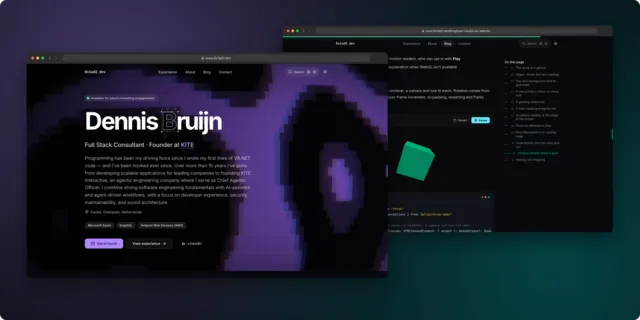
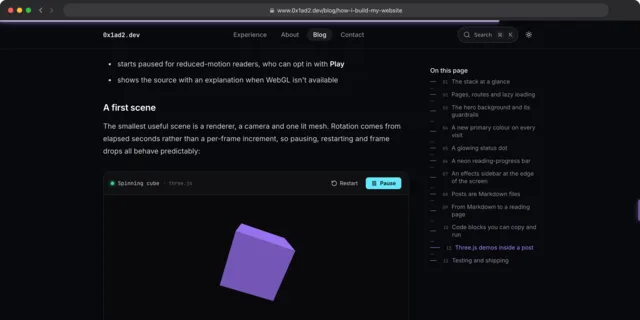
Enlarge project previews and drop the outdated 0x1ad2.dev tagline shot
Move each preview into the What it is cell so it renders at the cell's
width instead of a squeezed sixth column (about 90 px before). Swap the
0x1ad2.dev preview from the home hero, which still reads "Full Stack
Consultant", to the blog post screenshot from the same docs/assets.

diff --git a/README.md b/README.md
@@ -73,51 +73,51 @@ I combine solid engineering fundamentals with agent-driven workflows and pick th
 
 ### Cross-platform products
 
-| Icon | Project | What it is | Platforms | Status | Preview |
-|:-:|---|---|---|---|---|
-| <img src="assets/crow/icon.png" width="40" height="40" alt="Crow icon"> | <b>🐦⬛&nbsp;Crow</b> | Card scanner and price guide for Magic, Pokémon, Lorcana, One Piece and Yu-Gi-Oh! on iPhone, Android and web<br><img src="https://img.shields.io/badge/Swift%206-333333?style=flat-square" alt="Swift 6"> <img src="https://img.shields.io/badge/Kotlin-333333?style=flat-square" alt="Kotlin"> <img src="https://img.shields.io/badge/React%2019-333333?style=flat-square" alt="React 19"> <img src="https://img.shields.io/badge/Supabase-333333?style=flat-square" alt="Supabase"> <img src="https://img.shields.io/badge/Rust-333333?style=flat-square" alt="Rust"> | iPhone and iPad (iOS and iPadOS 27+), Android 13+, web dashboard | v1.0.0 | <a href="assets/crow/explainer.mp4"><picture><source media="(prefers-color-scheme: light)" srcset="assets/crow/preview-light.webp"><img src="assets/crow/preview-dark.webp" width="200" alt="Crow preview"></picture></a><br><sub><a href="assets/crow/explainer.mp4">Explainer</a> (1.4 MB)</sub> |
-| <img src="assets/noema/icon.png" width="40" height="40" alt="Noema icon"> | <b>🪷&nbsp;Noema</b> | Generative audiovisual studio with audio-reactive worlds and a synth lab for Apple, Android and Windows<br><img src="https://img.shields.io/badge/C%2B%2B17-333333?style=flat-square" alt="C++17"> <img src="https://img.shields.io/badge/WebAssembly-333333?style=flat-square" alt="WebAssembly"> <img src="https://img.shields.io/badge/three.js-333333?style=flat-square" alt="three.js"> <img src="https://img.shields.io/badge/Swift%206-333333?style=flat-square" alt="Swift 6"> <img src="https://img.shields.io/badge/Kotlin-333333?style=flat-square" alt="Kotlin"> | iPhone, iPad, Mac, Apple Watch, Android, Windows | v1.0.1 | <a href="assets/noema/explainer.mp4"><picture><source media="(prefers-color-scheme: light)" srcset="assets/noema/preview-light.webp"><img src="assets/noema/preview-dark.webp" width="200" alt="Noema preview"></picture></a><br><sub><a href="assets/noema/explainer.mp4">Explainer</a> (2.2 MB)</sub> |
+| Icon | Project | What it is | Platforms | Status |
+|:-:|---|---|---|---|
+| <img src="assets/crow/icon.png" width="40" height="40" alt="Crow icon"> | <b>🐦⬛&nbsp;Crow</b> | Card scanner and price guide for Magic, Pokémon, Lorcana, One Piece and Yu-Gi-Oh! on iPhone, Android and web<br><img src="https://img.shields.io/badge/Swift%206-333333?style=flat-square" alt="Swift 6"> <img src="https://img.shields.io/badge/Kotlin-333333?style=flat-square" alt="Kotlin"> <img src="https://img.shields.io/badge/React%2019-333333?style=flat-square" alt="React 19"> <img src="https://img.shields.io/badge/Supabase-333333?style=flat-square" alt="Supabase"> <img src="https://img.shields.io/badge/Rust-333333?style=flat-square" alt="Rust"><br><a href="assets/crow/explainer.mp4"><picture><source media="(prefers-color-scheme: light)" srcset="assets/crow/preview-light.webp"><img src="assets/crow/preview-dark.webp" width="100%" alt="Crow preview"></picture></a><br><sub><a href="assets/crow/explainer.mp4">Explainer</a> (1.4 MB)</sub> | iPhone and iPad (iOS and iPadOS 27+), Android 13+, web dashboard | v1.0.0 |
+| <img src="assets/noema/icon.png" width="40" height="40" alt="Noema icon"> | <b>🪷&nbsp;Noema</b> | Generative audiovisual studio with audio-reactive worlds and a synth lab for Apple, Android and Windows<br><img src="https://img.shields.io/badge/C%2B%2B17-333333?style=flat-square" alt="C++17"> <img src="https://img.shields.io/badge/WebAssembly-333333?style=flat-square" alt="WebAssembly"> <img src="https://img.shields.io/badge/three.js-333333?style=flat-square" alt="three.js"> <img src="https://img.shields.io/badge/Swift%206-333333?style=flat-square" alt="Swift 6"> <img src="https://img.shields.io/badge/Kotlin-333333?style=flat-square" alt="Kotlin"><br><a href="assets/noema/explainer.mp4"><picture><source media="(prefers-color-scheme: light)" srcset="assets/noema/preview-light.webp"><img src="assets/noema/preview-dark.webp" width="100%" alt="Noema preview"></picture></a><br><sub><a href="assets/noema/explainer.mp4">Explainer</a> (2.2 MB)</sub> | iPhone, iPad, Mac, Apple Watch, Android, Windows | v1.0.1 |
 
 ### Agent and developer tools
 
-| Icon | Project | What it is | Platforms | Status | Preview |
-|:-:|---|---|---|---|---|
-| <img src="assets/claudetographer/icon.png" width="40" height="40" alt="Claudetographer icon"> | <b>🧭&nbsp;Claudetographer</b> | Live map of every Claude Code session, subagent, agent team and workflow, with cost and forecasts<br><img src="https://img.shields.io/badge/TypeScript-333333?style=flat-square" alt="TypeScript"> <img src="https://img.shields.io/badge/Node.js-333333?style=flat-square" alt="Node.js"> <img src="https://img.shields.io/badge/React%2019-333333?style=flat-square" alt="React 19"> <img src="https://img.shields.io/badge/Vite%208-333333?style=flat-square" alt="Vite 8"> <img src="https://img.shields.io/badge/ECharts%206-333333?style=flat-square" alt="ECharts 6"> | any OS with Node 23.6+, in the browser or VS Code's Simple Browser; macOS LaunchAgent for always-on | v2.4.0 | <a href="assets/claudetographer/explainer.mp4"><picture><source media="(prefers-color-scheme: light)" srcset="assets/claudetographer/preview-light.webp"><img src="assets/claudetographer/preview-dark.webp" width="200" alt="Claudetographer preview"></picture></a><br><sub><a href="assets/claudetographer/explainer.mp4">Explainer</a> (1.4 MB)</sub> |
-| <img src="assets/loupe/icon.png" width="40" height="40" alt="Loupe icon"> | <b>🔍&nbsp;Loupe</b> | macOS menu bar tool that picks any UI element through the Accessibility API and hands it to your coding agent<br><img src="https://img.shields.io/badge/Swift%206-333333?style=flat-square" alt="Swift 6"> <img src="https://img.shields.io/badge/SwiftUI-333333?style=flat-square" alt="SwiftUI"> <img src="https://img.shields.io/badge/Accessibility%20API-333333?style=flat-square" alt="Accessibility API"> <img src="https://img.shields.io/badge/ScreenCaptureKit-333333?style=flat-square" alt="ScreenCaptureKit"> | macOS 15+ (Liquid Glass on macOS 26) | In development | <a href="assets/loupe/explainer.mp4"><picture><source media="(prefers-color-scheme: light)" srcset="assets/loupe/preview-light.webp"><img src="assets/loupe/preview-dark.webp" width="200" alt="Loupe preview"></picture></a><br><sub><a href="assets/loupe/explainer.mp4">Explainer</a> (1.3 MB)</sub> |
-| <img src="assets/jot/icon.png" width="40" height="40" alt="Jot icon"> | <b>✍&nbsp;Jot</b> | macOS Markdown notepad with Claude ghost-text autocomplete, one-key rewrites and Obsidian vaults<br><img src="https://img.shields.io/badge/TypeScript-333333?style=flat-square" alt="TypeScript"> <img src="https://img.shields.io/badge/React%2019-333333?style=flat-square" alt="React 19"> <img src="https://img.shields.io/badge/Tauri%202-333333?style=flat-square" alt="Tauri 2"> <img src="https://img.shields.io/badge/Rust-333333?style=flat-square" alt="Rust"> <img src="https://img.shields.io/badge/Swift%206-333333?style=flat-square" alt="Swift 6"> | macOS (JotMac needs macOS 14+) | In development | <a href="assets/jot/explainer.mp4"><picture><source media="(prefers-color-scheme: light)" srcset="assets/jot/preview-light.webp"><img src="assets/jot/preview-dark.webp" width="200" alt="Jot preview"></picture></a><br><sub><a href="assets/jot/explainer.mp4">Explainer</a> (1.2 MB)</sub> |
-| <img src="assets/fetch-screenshots/icon.png" width="40" height="40" alt="fetch-screenshots icon"> | <b>📸&nbsp;fetch-screenshots</b> | Playwright CLI that crawls a site and saves full-page light and dark screenshots of every page<br><img src="https://img.shields.io/badge/Python%203.10%2B-333333?style=flat-square" alt="Python 3.10+"> <img src="https://img.shields.io/badge/Playwright-333333?style=flat-square" alt="Playwright"> <img src="https://img.shields.io/badge/Pillow-333333?style=flat-square" alt="Pillow"> | macOS, Linux, Windows | In development | <a href="assets/fetch-screenshots/explainer.mp4"><img src="assets/fetch-screenshots/preview-dark.webp" width="200" alt="fetch-screenshots preview"></a><br><sub><a href="assets/fetch-screenshots/explainer.mp4">Explainer</a> (1.1 MB)</sub> |
-| <img src="assets/montage/icon.png" width="40" height="40" alt="Montage icon"> | <b>📽&nbsp;Montage</b> | Remotion studio that renders icons, GIFs and explainer videos for every 0x1ad2 project from one config<br><img src="https://img.shields.io/badge/TypeScript-333333?style=flat-square" alt="TypeScript"> <img src="https://img.shields.io/badge/Remotion%204.0.542-333333?style=flat-square" alt="Remotion 4.0.542"> <img src="https://img.shields.io/badge/React%2019-333333?style=flat-square" alt="React 19"> <img src="https://img.shields.io/badge/ffmpeg-333333?style=flat-square" alt="ffmpeg"> | macOS or Linux, Node 23.6+ | In development | <a href="assets/montage/explainer.mp4"><img src="assets/montage/preview-dark.webp" width="200" alt="Montage preview"></a><br><sub><a href="assets/montage/explainer.mp4">Explainer</a> (0.8 MB)</sub> |
+| Icon | Project | What it is | Platforms | Status |
+|:-:|---|---|---|---|
+| <img src="assets/claudetographer/icon.png" width="40" height="40" alt="Claudetographer icon"> | <b>🧭&nbsp;Claudetographer</b> | Live map of every Claude Code session, subagent, agent team and workflow, with cost and forecasts<br><img src="https://img.shields.io/badge/TypeScript-333333?style=flat-square" alt="TypeScript"> <img src="https://img.shields.io/badge/Node.js-333333?style=flat-square" alt="Node.js"> <img src="https://img.shields.io/badge/React%2019-333333?style=flat-square" alt="React 19"> <img src="https://img.shields.io/badge/Vite%208-333333?style=flat-square" alt="Vite 8"> <img src="https://img.shields.io/badge/ECharts%206-333333?style=flat-square" alt="ECharts 6"><br><a href="assets/claudetographer/explainer.mp4"><picture><source media="(prefers-color-scheme: light)" srcset="assets/claudetographer/preview-light.webp"><img src="assets/claudetographer/preview-dark.webp" width="100%" alt="Claudetographer preview"></picture></a><br><sub><a href="assets/claudetographer/explainer.mp4">Explainer</a> (1.4 MB)</sub> | any OS with Node 23.6+, in the browser or VS Code's Simple Browser; macOS LaunchAgent for always-on | v2.4.0 |
+| <img src="assets/loupe/icon.png" width="40" height="40" alt="Loupe icon"> | <b>🔍&nbsp;Loupe</b> | macOS menu bar tool that picks any UI element through the Accessibility API and hands it to your coding agent<br><img src="https://img.shields.io/badge/Swift%206-333333?style=flat-square" alt="Swift 6"> <img src="https://img.shields.io/badge/SwiftUI-333333?style=flat-square" alt="SwiftUI"> <img src="https://img.shields.io/badge/Accessibility%20API-333333?style=flat-square" alt="Accessibility API"> <img src="https://img.shields.io/badge/ScreenCaptureKit-333333?style=flat-square" alt="ScreenCaptureKit"><br><a href="assets/loupe/explainer.mp4"><picture><source media="(prefers-color-scheme: light)" srcset="assets/loupe/preview-light.webp"><img src="assets/loupe/preview-dark.webp" width="100%" alt="Loupe preview"></picture></a><br><sub><a href="assets/loupe/explainer.mp4">Explainer</a> (1.3 MB)</sub> | macOS 15+ (Liquid Glass on macOS 26) | In development |
+| <img src="assets/jot/icon.png" width="40" height="40" alt="Jot icon"> | <b>✍&nbsp;Jot</b> | macOS Markdown notepad with Claude ghost-text autocomplete, one-key rewrites and Obsidian vaults<br><img src="https://img.shields.io/badge/TypeScript-333333?style=flat-square" alt="TypeScript"> <img src="https://img.shields.io/badge/React%2019-333333?style=flat-square" alt="React 19"> <img src="https://img.shields.io/badge/Tauri%202-333333?style=flat-square" alt="Tauri 2"> <img src="https://img.shields.io/badge/Rust-333333?style=flat-square" alt="Rust"> <img src="https://img.shields.io/badge/Swift%206-333333?style=flat-square" alt="Swift 6"><br><a href="assets/jot/explainer.mp4"><picture><source media="(prefers-color-scheme: light)" srcset="assets/jot/preview-light.webp"><img src="assets/jot/preview-dark.webp" width="100%" alt="Jot preview"></picture></a><br><sub><a href="assets/jot/explainer.mp4">Explainer</a> (1.2 MB)</sub> | macOS (JotMac needs macOS 14+) | In development |
+| <img src="assets/fetch-screenshots/icon.png" width="40" height="40" alt="fetch-screenshots icon"> | <b>📸&nbsp;fetch-screenshots</b> | Playwright CLI that crawls a site and saves full-page light and dark screenshots of every page<br><img src="https://img.shields.io/badge/Python%203.10%2B-333333?style=flat-square" alt="Python 3.10+"> <img src="https://img.shields.io/badge/Playwright-333333?style=flat-square" alt="Playwright"> <img src="https://img.shields.io/badge/Pillow-333333?style=flat-square" alt="Pillow"><br><a href="assets/fetch-screenshots/explainer.mp4"><img src="assets/fetch-screenshots/preview-dark.webp" width="100%" alt="fetch-screenshots preview"></a><br><sub><a href="assets/fetch-screenshots/explainer.mp4">Explainer</a> (1.1 MB)</sub> | macOS, Linux, Windows | In development |
+| <img src="assets/montage/icon.png" width="40" height="40" alt="Montage icon"> | <b>📽&nbsp;Montage</b> | Remotion studio that renders icons, GIFs and explainer videos for every 0x1ad2 project from one config<br><img src="https://img.shields.io/badge/TypeScript-333333?style=flat-square" alt="TypeScript"> <img src="https://img.shields.io/badge/Remotion%204.0.542-333333?style=flat-square" alt="Remotion 4.0.542"> <img src="https://img.shields.io/badge/React%2019-333333?style=flat-square" alt="React 19"> <img src="https://img.shields.io/badge/ffmpeg-333333?style=flat-square" alt="ffmpeg"><br><a href="assets/montage/explainer.mp4"><img src="assets/montage/preview-dark.webp" width="100%" alt="Montage preview"></a><br><sub><a href="assets/montage/explainer.mp4">Explainer</a> (0.8 MB)</sub> | macOS or Linux, Node 23.6+ | In development |
 
 ### Apple apps
 
-| Icon | Project | What it is | Platforms | Status | Preview |
-|:-:|---|---|---|---|---|
-| <img src="assets/halo/icon.png" width="40" height="40" alt="Halo icon"> | <b>🖱&nbsp;Halo</b> | macOS cursor highlighter with 17 stackable Metal shader effects, custom cursors and a live shader studio<br><img src="https://img.shields.io/badge/Swift%206-333333?style=flat-square" alt="Swift 6"> <img src="https://img.shields.io/badge/SwiftUI-333333?style=flat-square" alt="SwiftUI"> <img src="https://img.shields.io/badge/AppKit-333333?style=flat-square" alt="AppKit"> <img src="https://img.shields.io/badge/Metal-333333?style=flat-square" alt="Metal"> | macOS 26+ | In development | <a href="assets/halo/explainer.mp4"><img src="assets/halo/preview-dark.webp" width="200" alt="Halo preview"></a><br><sub><a href="assets/halo/explainer.mp4">Explainer</a> (1.3 MB)</sub> |
-| <img src="assets/homey/icon.png" width="40" height="40" alt="Homey icon"> | <b>🏠&nbsp;Homey</b> | Local-first home control for iPhone, iPad and Mac that maps your LAN and drives WiZ lights and Denon receivers<br><img src="https://img.shields.io/badge/Swift%206-333333?style=flat-square" alt="Swift 6"> <img src="https://img.shields.io/badge/SwiftUI-333333?style=flat-square" alt="SwiftUI"> <img src="https://img.shields.io/badge/Network.framework-333333?style=flat-square" alt="Network.framework"> <img src="https://img.shields.io/badge/CoreBluetooth-333333?style=flat-square" alt="CoreBluetooth"> | iOS, iPadOS and macOS 26 | In development | <a href="assets/homey/explainer.mp4"><picture><source media="(prefers-color-scheme: light)" srcset="assets/homey/preview-light.webp"><img src="assets/homey/preview-dark.webp" width="200" alt="Homey preview"></picture></a><br><sub><a href="assets/homey/explainer.mp4">Explainer</a> (1.1 MB)</sub> |
-| <img src="assets/voltwake/icon.png" width="40" height="40" alt="VoltWake icon"> | <b>⚡&nbsp;VoltWake</b> | High-energy alarms, smart wake-ups, timers and interval training for iPhone and Apple Watch with AlarmKit<br><img src="https://img.shields.io/badge/Swift%206-333333?style=flat-square" alt="Swift 6"> <img src="https://img.shields.io/badge/SwiftUI-333333?style=flat-square" alt="SwiftUI"> <img src="https://img.shields.io/badge/AlarmKit-333333?style=flat-square" alt="AlarmKit"> <img src="https://img.shields.io/badge/WidgetKit-333333?style=flat-square" alt="WidgetKit"> <img src="https://img.shields.io/badge/SwiftData-333333?style=flat-square" alt="SwiftData"> | iOS 26+, watchOS 26+ | In development | <a href="assets/voltwake/explainer.mp4"><picture><source media="(prefers-color-scheme: light)" srcset="assets/voltwake/preview-light.webp"><img src="assets/voltwake/preview-dark.webp" width="200" alt="VoltWake preview"></picture></a><br><sub><a href="assets/voltwake/explainer.mp4">Explainer</a> (1.0 MB)</sub> |
-| <img src="assets/muscle-mirror/icon.png" width="40" height="40" alt="Muscle Mirror icon"> | <b>💪&nbsp;Muscle Mirror</b> | macOS anatomical mirror that tracks your body with Apple Vision and draws 22 live muscle overlays<br><img src="https://img.shields.io/badge/Swift%206-333333?style=flat-square" alt="Swift 6"> <img src="https://img.shields.io/badge/SwiftUI-333333?style=flat-square" alt="SwiftUI"> <img src="https://img.shields.io/badge/Apple%20Vision-333333?style=flat-square" alt="Apple Vision"> | macOS 15+ | v1.0.0 | <a href="assets/muscle-mirror/explainer.mp4"><picture><source media="(prefers-color-scheme: light)" srcset="assets/muscle-mirror/preview-light.webp"><img src="assets/muscle-mirror/preview-dark.webp" width="200" alt="Muscle Mirror preview"></picture></a><br><sub><a href="assets/muscle-mirror/explainer.mp4">Explainer</a> (1.1 MB)</sub> |
+| Icon | Project | What it is | Platforms | Status |
+|:-:|---|---|---|---|
+| <img src="assets/halo/icon.png" width="40" height="40" alt="Halo icon"> | <b>🖱&nbsp;Halo</b> | macOS cursor highlighter with 17 stackable Metal shader effects, custom cursors and a live shader studio<br><img src="https://img.shields.io/badge/Swift%206-333333?style=flat-square" alt="Swift 6"> <img src="https://img.shields.io/badge/SwiftUI-333333?style=flat-square" alt="SwiftUI"> <img src="https://img.shields.io/badge/AppKit-333333?style=flat-square" alt="AppKit"> <img src="https://img.shields.io/badge/Metal-333333?style=flat-square" alt="Metal"><br><a href="assets/halo/explainer.mp4"><img src="assets/halo/preview-dark.webp" width="100%" alt="Halo preview"></a><br><sub><a href="assets/halo/explainer.mp4">Explainer</a> (1.3 MB)</sub> | macOS 26+ | In development |
+| <img src="assets/homey/icon.png" width="40" height="40" alt="Homey icon"> | <b>🏠&nbsp;Homey</b> | Local-first home control for iPhone, iPad and Mac that maps your LAN and drives WiZ lights and Denon receivers<br><img src="https://img.shields.io/badge/Swift%206-333333?style=flat-square" alt="Swift 6"> <img src="https://img.shields.io/badge/SwiftUI-333333?style=flat-square" alt="SwiftUI"> <img src="https://img.shields.io/badge/Network.framework-333333?style=flat-square" alt="Network.framework"> <img src="https://img.shields.io/badge/CoreBluetooth-333333?style=flat-square" alt="CoreBluetooth"><br><a href="assets/homey/explainer.mp4"><picture><source media="(prefers-color-scheme: light)" srcset="assets/homey/preview-light.webp"><img src="assets/homey/preview-dark.webp" width="100%" alt="Homey preview"></picture></a><br><sub><a href="assets/homey/explainer.mp4">Explainer</a> (1.1 MB)</sub> | iOS, iPadOS and macOS 26 | In development |
+| <img src="assets/voltwake/icon.png" width="40" height="40" alt="VoltWake icon"> | <b>⚡&nbsp;VoltWake</b> | High-energy alarms, smart wake-ups, timers and interval training for iPhone and Apple Watch with AlarmKit<br><img src="https://img.shields.io/badge/Swift%206-333333?style=flat-square" alt="Swift 6"> <img src="https://img.shields.io/badge/SwiftUI-333333?style=flat-square" alt="SwiftUI"> <img src="https://img.shields.io/badge/AlarmKit-333333?style=flat-square" alt="AlarmKit"> <img src="https://img.shields.io/badge/WidgetKit-333333?style=flat-square" alt="WidgetKit"> <img src="https://img.shields.io/badge/SwiftData-333333?style=flat-square" alt="SwiftData"><br><a href="assets/voltwake/explainer.mp4"><picture><source media="(prefers-color-scheme: light)" srcset="assets/voltwake/preview-light.webp"><img src="assets/voltwake/preview-dark.webp" width="100%" alt="VoltWake preview"></picture></a><br><sub><a href="assets/voltwake/explainer.mp4">Explainer</a> (1.0 MB)</sub> | iOS 26+, watchOS 26+ | In development |
+| <img src="assets/muscle-mirror/icon.png" width="40" height="40" alt="Muscle Mirror icon"> | <b>💪&nbsp;Muscle Mirror</b> | macOS anatomical mirror that tracks your body with Apple Vision and draws 22 live muscle overlays<br><img src="https://img.shields.io/badge/Swift%206-333333?style=flat-square" alt="Swift 6"> <img src="https://img.shields.io/badge/SwiftUI-333333?style=flat-square" alt="SwiftUI"> <img src="https://img.shields.io/badge/Apple%20Vision-333333?style=flat-square" alt="Apple Vision"><br><a href="assets/muscle-mirror/explainer.mp4"><picture><source media="(prefers-color-scheme: light)" srcset="assets/muscle-mirror/preview-light.webp"><img src="assets/muscle-mirror/preview-dark.webp" width="100%" alt="Muscle Mirror preview"></picture></a><br><sub><a href="assets/muscle-mirror/explainer.mp4">Explainer</a> (1.1 MB)</sub> | macOS 15+ | v1.0.0 |
 
 ### Creative audio and visual
 
-| Icon | Project | What it is | Platforms | Status | Preview |
-|:-:|---|---|---|---|---|
-| <img src="assets/wavr/icon.png" width="40" height="40" alt="Wavr icon"> | <b>🎛&nbsp;Wavr</b> | Loop-based music studio for Mac, iPhone and iPad to arrange, record, synthesize, mix, perform and export WAV<br><img src="https://img.shields.io/badge/Swift%206-333333?style=flat-square" alt="Swift 6"> <img src="https://img.shields.io/badge/SwiftUI-333333?style=flat-square" alt="SwiftUI"> <img src="https://img.shields.io/badge/AVAudioEngine-333333?style=flat-square" alt="AVAudioEngine"> | macOS 15+, iOS and iPadOS 18+ | v1.2.0 | <a href="assets/wavr/explainer.mp4"><picture><source media="(prefers-color-scheme: light)" srcset="assets/wavr/preview-light.webp"><img src="assets/wavr/preview-dark.webp" width="200" alt="Wavr preview"></picture></a><br><sub><a href="assets/wavr/explainer.mp4">Explainer</a> (2.2 MB)</sub> |
+| Icon | Project | What it is | Platforms | Status |
+|:-:|---|---|---|---|
+| <img src="assets/wavr/icon.png" width="40" height="40" alt="Wavr icon"> | <b>🎛&nbsp;Wavr</b> | Loop-based music studio for Mac, iPhone and iPad to arrange, record, synthesize, mix, perform and export WAV<br><img src="https://img.shields.io/badge/Swift%206-333333?style=flat-square" alt="Swift 6"> <img src="https://img.shields.io/badge/SwiftUI-333333?style=flat-square" alt="SwiftUI"> <img src="https://img.shields.io/badge/AVAudioEngine-333333?style=flat-square" alt="AVAudioEngine"><br><a href="assets/wavr/explainer.mp4"><picture><source media="(prefers-color-scheme: light)" srcset="assets/wavr/preview-light.webp"><img src="assets/wavr/preview-dark.webp" width="100%" alt="Wavr preview"></picture></a><br><sub><a href="assets/wavr/explainer.mp4">Explainer</a> (2.2 MB)</sub> | macOS 15+, iOS and iPadOS 18+ | v1.2.0 |
 
 See also 🪷 Noema under [Cross-platform products](#cross-platform-products).
 
 ### Web apps
 
-| Icon | Project | What it is | Platforms | Status | Preview |
-|:-:|---|---|---|---|---|
-| <img src="assets/tempo/icon.png" width="40" height="40" alt="Tempo icon"> | <b>⏱&nbsp;Tempo</b> | Kanban board and calendar time-blocking in one, with two-way sync against simulated Google Calendar and Tasks<br><img src="https://img.shields.io/badge/TypeScript-333333?style=flat-square" alt="TypeScript"> <img src="https://img.shields.io/badge/React%2018-333333?style=flat-square" alt="React 18"> <img src="https://img.shields.io/badge/Hono-333333?style=flat-square" alt="Hono"> <img src="https://img.shields.io/badge/PostgreSQL%2016-333333?style=flat-square" alt="PostgreSQL 16"> | web; macOS 13+ wrapper app | In development | <a href="assets/tempo/explainer.mp4"><picture><source media="(prefers-color-scheme: light)" srcset="assets/tempo/preview-light.webp"><img src="assets/tempo/preview-dark.webp" width="200" alt="Tempo preview"></picture></a><br><sub><a href="assets/tempo/explainer.mp4">Explainer</a> (1.3 MB)</sub> |
-| <img src="assets/card-ledger/icon.png" width="40" height="40" alt="Card Ledger icon"> | <b>🃏&nbsp;Card Ledger</b> | Private React dashboard for trading card purchases with ECharts spend charts and an AG Grid order ledger<br><img src="https://img.shields.io/badge/JavaScript-333333?style=flat-square" alt="JavaScript"> <img src="https://img.shields.io/badge/React%2019-333333?style=flat-square" alt="React 19"> <img src="https://img.shields.io/badge/ECharts%206-333333?style=flat-square" alt="ECharts 6"> <img src="https://img.shields.io/badge/AG%20Grid-333333?style=flat-square" alt="AG Grid"> | web (static, no backend) | In development | <a href="assets/card-ledger/explainer.mp4"><picture><source media="(prefers-color-scheme: light)" srcset="assets/card-ledger/preview-light.webp"><img src="assets/card-ledger/preview-dark.webp" width="200" alt="Card Ledger preview"></picture></a><br><sub><a href="assets/card-ledger/explainer.mp4">Explainer</a> (1.3 MB)</sub> |
+| Icon | Project | What it is | Platforms | Status |
+|:-:|---|---|---|---|
+| <img src="assets/tempo/icon.png" width="40" height="40" alt="Tempo icon"> | <b>⏱&nbsp;Tempo</b> | Kanban board and calendar time-blocking in one, with two-way sync against simulated Google Calendar and Tasks<br><img src="https://img.shields.io/badge/TypeScript-333333?style=flat-square" alt="TypeScript"> <img src="https://img.shields.io/badge/React%2018-333333?style=flat-square" alt="React 18"> <img src="https://img.shields.io/badge/Hono-333333?style=flat-square" alt="Hono"> <img src="https://img.shields.io/badge/PostgreSQL%2016-333333?style=flat-square" alt="PostgreSQL 16"><br><a href="assets/tempo/explainer.mp4"><picture><source media="(prefers-color-scheme: light)" srcset="assets/tempo/preview-light.webp"><img src="assets/tempo/preview-dark.webp" width="100%" alt="Tempo preview"></picture></a><br><sub><a href="assets/tempo/explainer.mp4">Explainer</a> (1.3 MB)</sub> | web; macOS 13+ wrapper app | In development |
+| <img src="assets/card-ledger/icon.png" width="40" height="40" alt="Card Ledger icon"> | <b>🃏&nbsp;Card Ledger</b> | Private React dashboard for trading card purchases with ECharts spend charts and an AG Grid order ledger<br><img src="https://img.shields.io/badge/JavaScript-333333?style=flat-square" alt="JavaScript"> <img src="https://img.shields.io/badge/React%2019-333333?style=flat-square" alt="React 19"> <img src="https://img.shields.io/badge/ECharts%206-333333?style=flat-square" alt="ECharts 6"> <img src="https://img.shields.io/badge/AG%20Grid-333333?style=flat-square" alt="AG Grid"><br><a href="assets/card-ledger/explainer.mp4"><picture><source media="(prefers-color-scheme: light)" srcset="assets/card-ledger/preview-light.webp"><img src="assets/card-ledger/preview-dark.webp" width="100%" alt="Card Ledger preview"></picture></a><br><sub><a href="assets/card-ledger/explainer.mp4">Explainer</a> (1.3 MB)</sub> | web (static, no backend) | In development |
 
 ### Sites
 
-| Icon | Project | What it is | Platforms | Status | Preview |
-|:-:|---|---|---|---|---|
-| <img src="assets/kite-website/icon.png" width="40" height="40" alt="KITE Interactive website icon"> | <a href="https://www.kite-interactive.online"><b>🪁&nbsp;KITE Interactive website</b></a> | KITE Interactive — company website told as a scroll-driven WebGPU film, with CRT shaders and page curls<br><img src="https://img.shields.io/badge/TypeScript-333333?style=flat-square" alt="TypeScript"> <img src="https://img.shields.io/badge/React%2019-333333?style=flat-square" alt="React 19"> <img src="https://img.shields.io/badge/three.js%20WebGPU-333333?style=flat-square" alt="three.js WebGPU"> <img src="https://img.shields.io/badge/Blender-333333?style=flat-square" alt="Blender"> | web | <a href="https://www.kite-interactive.online">Live site</a> | <a href="assets/kite-website/explainer.mp4"><img src="assets/kite-website/preview-dark.webp" width="200" alt="KITE Interactive website preview"></a><br><sub><a href="assets/kite-website/explainer.mp4">Explainer</a> (4.1 MB)</sub> |
-| <img src="assets/0x1ad2-dev/icon.png" width="40" height="40" alt="0x1ad2.dev icon"> | <a href="https://www.0x1ad2.dev"><b>🌈&nbsp;0x1ad2.dev</b></a> | 0x1ad2.dev — personal site and blog of Dennis Bruijn with WebGL heroes, live three.js demos and a new hue per visit<br><img src="https://img.shields.io/badge/TypeScript-333333?style=flat-square" alt="TypeScript"> <img src="https://img.shields.io/badge/React%2019-333333?style=flat-square" alt="React 19"> <img src="https://img.shields.io/badge/Tailwind%20CSS%20v4-333333?style=flat-square" alt="Tailwind CSS v4"> <img src="https://img.shields.io/badge/three.js-333333?style=flat-square" alt="three.js"> | web | <a href="https://www.0x1ad2.dev">Live site</a> | <a href="assets/0x1ad2-dev/explainer.mp4"><picture><source media="(prefers-color-scheme: light)" srcset="assets/0x1ad2-dev/preview-light.webp"><img src="assets/0x1ad2-dev/preview-dark.webp" width="200" alt="0x1ad2.dev preview"></picture></a><br><sub><a href="assets/0x1ad2-dev/explainer.mp4">Explainer</a> (1.9 MB)</sub> |
+| Icon | Project | What it is | Platforms | Status |
+|:-:|---|---|---|---|
+| <img src="assets/kite-website/icon.png" width="40" height="40" alt="KITE Interactive website icon"> | <a href="https://www.kite-interactive.online"><b>🪁&nbsp;KITE Interactive website</b></a> | KITE Interactive — company website told as a scroll-driven WebGPU film, with CRT shaders and page curls<br><img src="https://img.shields.io/badge/TypeScript-333333?style=flat-square" alt="TypeScript"> <img src="https://img.shields.io/badge/React%2019-333333?style=flat-square" alt="React 19"> <img src="https://img.shields.io/badge/three.js%20WebGPU-333333?style=flat-square" alt="three.js WebGPU"> <img src="https://img.shields.io/badge/Blender-333333?style=flat-square" alt="Blender"><br><a href="assets/kite-website/explainer.mp4"><img src="assets/kite-website/preview-dark.webp" width="100%" alt="KITE Interactive website preview"></a><br><sub><a href="assets/kite-website/explainer.mp4">Explainer</a> (4.1 MB)</sub> | web | <a href="https://www.kite-interactive.online">Live site</a> |
+| <img src="assets/0x1ad2-dev/icon.png" width="40" height="40" alt="0x1ad2.dev icon"> | <a href="https://www.0x1ad2.dev"><b>🌈&nbsp;0x1ad2.dev</b></a> | 0x1ad2.dev — personal site and blog of Dennis Bruijn with WebGL heroes, live three.js demos and a new hue per visit<br><img src="https://img.shields.io/badge/TypeScript-333333?style=flat-square" alt="TypeScript"> <img src="https://img.shields.io/badge/React%2019-333333?style=flat-square" alt="React 19"> <img src="https://img.shields.io/badge/Tailwind%20CSS%20v4-333333?style=flat-square" alt="Tailwind CSS v4"> <img src="https://img.shields.io/badge/three.js-333333?style=flat-square" alt="three.js"><br><a href="assets/0x1ad2-dev/explainer.mp4"><picture><source media="(prefers-color-scheme: light)" srcset="assets/0x1ad2-dev/preview-light.webp"><img src="assets/0x1ad2-dev/preview-dark.webp" width="100%" alt="0x1ad2.dev preview"></picture></a><br><sub><a href="assets/0x1ad2-dev/explainer.mp4">Explainer</a> (1.9 MB)</sub> | web | <a href="https://www.0x1ad2.dev">Live site</a> |
 
 > Source is private. Access can be granted to anyone interested in contributing; [get in touch](https://www.0x1ad2.dev/contact).
 
